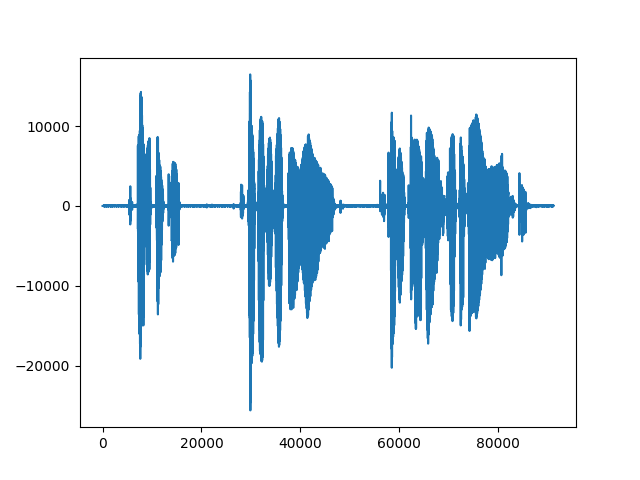
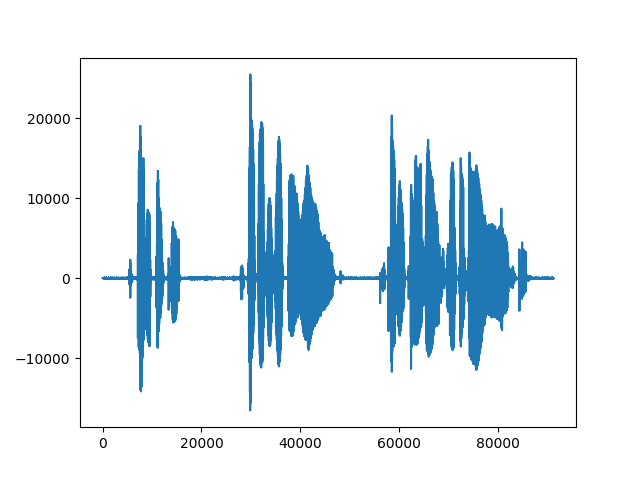
mixier outputs

diff --git a/dgt_exp2.py b/dgt_exp2.py
@@ -1,0 +1,37 @@
+import dgt as mydgt
+import scipy.io.wavfile as wio
+import numpy as np
+import matplotlib.pyplot as plt
+import matplotlib.ticker as ticker
+import sys
+
+# sample: wav
+w = mydgt.hammig_w(500)
+
+a = 150
+b = 150
+start = 0
+end = sys.maxsize    # ファイル全体
+
+# 音声を読み込み
+x, fs = mydgt.load_wav("shining.wav", start, end)
+x = x[0:100000]
+L = len(x)
+
+N = int(L / a)
+M = int(L / b)
+
+# 各音声を順変換
+dgt1 = mydgt.DGT(len(w), a, b, L)
+X = dgt1.dgt(x, w)
+
+print(X)
+
+# 合成した上で逆変換
+idgt = mydgt.IDGT(len(w), a, b, L)
+cx = idgt.idgt(X, w)
+
+# 逆変換結果をwavファイルに出力
+wio.write("exp2_output.wav", fs, np.real(cx) * pow(10, -4))
+
+mydgt.plot(x, X, cx, w, a, b, N, L, fs)

diff --git a/dgt_exp1_isolator.py b/dgt_exp1_isolator.py
@@ -18,7 +18,7 @@ x_mixed, fs = mydgt.load_wav("mixed_wave.wav", start, end)
 L_mixed = len(x_mixed)
 
 # 分離したい音声を読み込み
-x_target, fs = mydgt.load_wav("F1AES2_parts.wav", start, end)
+x_target, fs = mydgt.load_wav("M1GIM01.wav", start, end)
 L_target = len(x_target)
 
 if L_mixed > L_target:
@@ -46,6 +46,6 @@ idgt = mydgt.IDGT(len(w), a, b, L)
 cx = idgt.idgt(X_mixed, w)
 
 # 逆変換結果をwavファイルに出力
-wio.write("isolated_wave.wav", fs, np.real(cx) * pow(10, -4))
+wio.write("isolated_wave2.wav", fs, np.real(cx) * pow(10, -4))
 
 mydgt.plot(x_mixed, X_mixed, cx, w, a, b, N, L, fs)

diff --git a/dgt_exp1_mixer.py b/dgt_exp1_mixer.py
@@ -50,7 +50,7 @@ idgt = mydgt.IDGT(len(w), a, b, L)
 cx = idgt.idgt(X, w)
 
 # 逆変換結果をwavファイルに出力
-wio.write("mixed_wave.wav", fs1, np.real(cx) * pow(10, -4))
+wio.write("mixed_wave.wav", fs1, np.real(cx))
 
 mydgt.plot(x1, X1, cx, w, a, b, N, L, fs)
 mydgt.plot(x2, X2, cx, w, a, b, N, L, fs)
